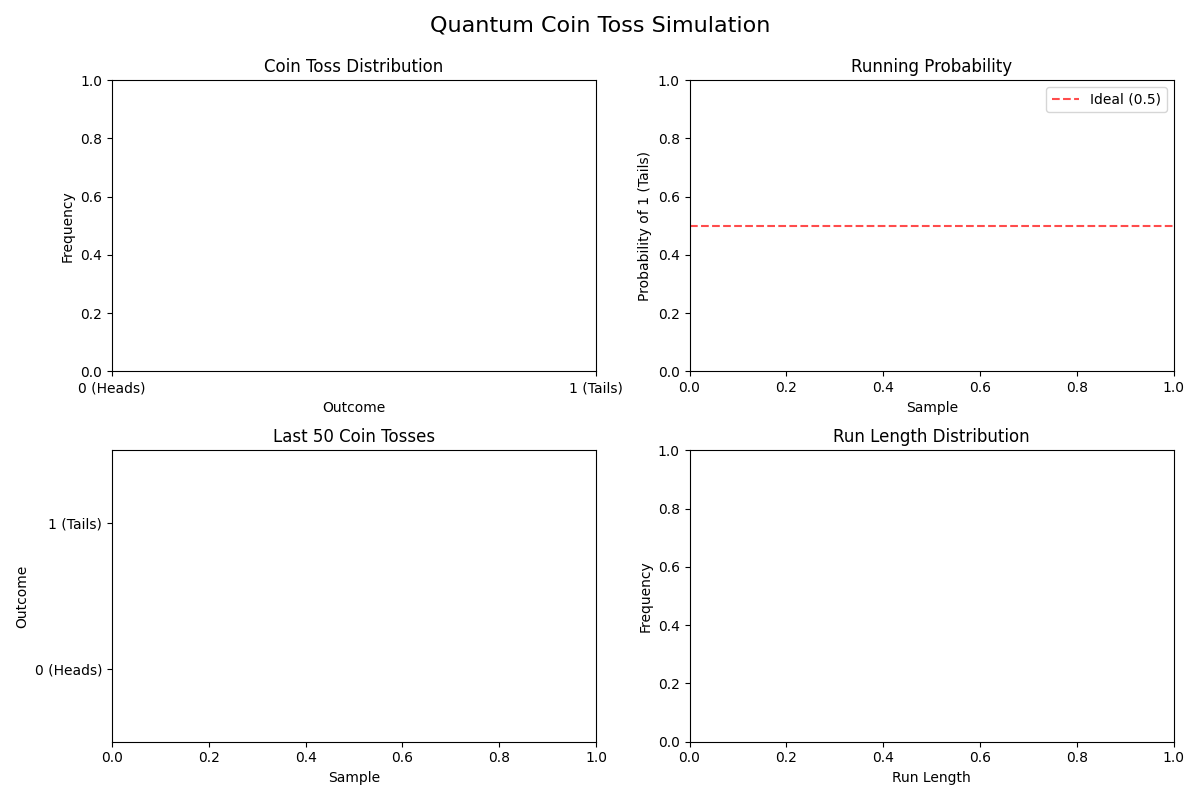
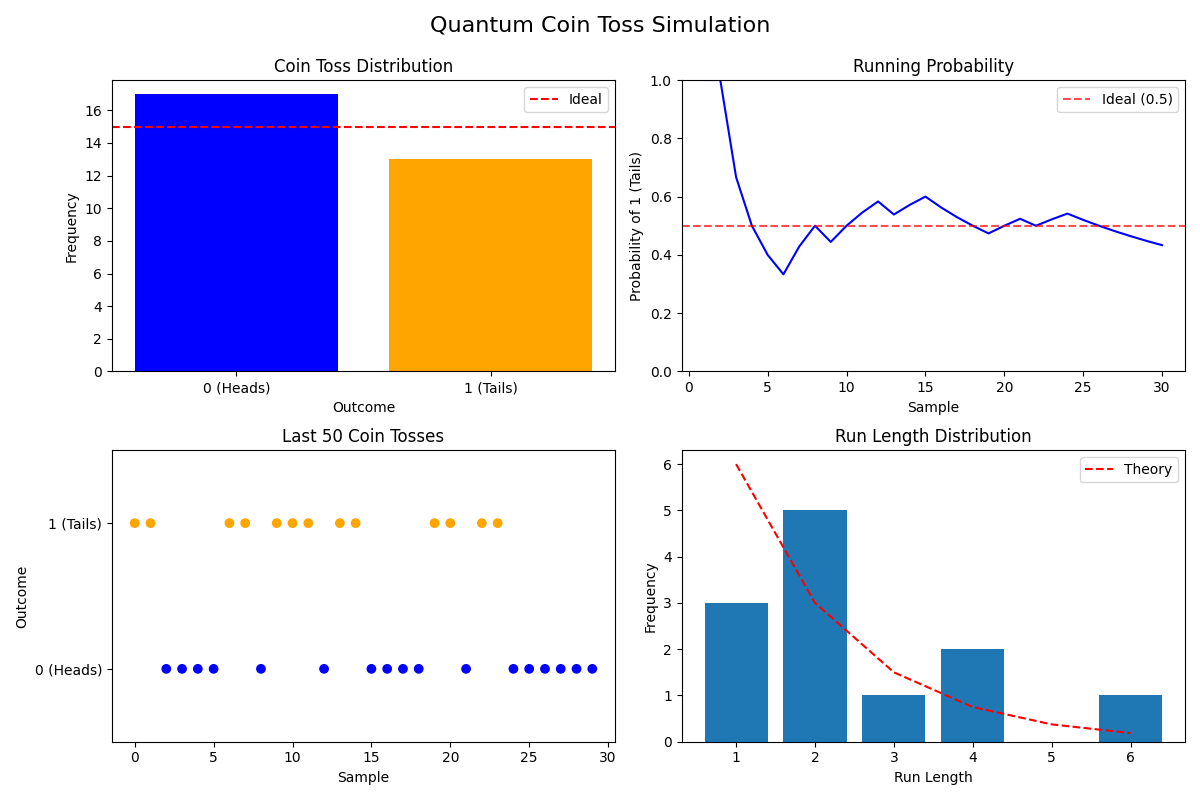
fixed the visualizer with some tests to make sure proper diagnostics were appearing

diff --git a/quantum_rings_toss.py b/quantum_rings_toss.py
@@ -7,6 +7,7 @@ from qiskit_aer import AerSimulator
 import numpy as np
 import time
 import argparse
+import matplotlib.pyplot as plt
 
 # Import our provider initialization and visualizer
 from quantum_rings_provider import initialize_quantum_backend
@@ -54,6 +55,7 @@ def quantum_coin_toss(use_hardware=False, visualizer=None):
     # Update visualizer if provided
     if visualizer:
         visualizer.add_result(result)
+        plt.pause(0.05)  # Force immediate update
     
     return result
 
@@ -130,6 +132,9 @@ def run_experiment(num_tosses=100, use_hardware=False, visualize=True, delay=0.1
         if visualize and visualizer:
             filename = f"quantum_toss_{hardware_label}.png"
             visualizer.save_visualization(filename)
+            plt.pause(0.5)
+            print("\nVisualization complete. Press Enter to close...")
+            input()
             time.sleep(1)  # Give time for save to complete
             visualizer.stop_visualization()
 
@@ -150,3 +155,6 @@ if __name__ == "__main__":
         visualize=not args.no_viz,
         delay=args.delay
     )
+
+    if not args.no_viz:
+        input("Press Enter to close the visualization...")

diff --git a/fixed_quantum_viz.py b/fixed_quantum_viz.py
@@ -1,0 +1,38 @@
+# Save as fixed_quantum_viz.py
+from quantum_visualizer import QuantumVisualizer
+from qiskit import QuantumCircuit
+from qiskit_aer import AerSimulator
+import matplotlib.pyplot as plt
+import time
+
+# Create visualizer
+viz = QuantumVisualizer()
+viz.start_visualization()
+
+# Run 20 actual quantum tosses
+simulator = AerSimulator()
+
+for i in range(20):
+    # Create quantum circuit
+    qc = QuantumCircuit(1, 1)
+    qc.h(0)  # Apply Hadamard gate
+    qc.measure(0, 0)
+    
+    # Run on simulator
+    job = simulator.run(qc, shots=1)
+    outcome = list(job.result().get_counts().keys())[0]
+    result = int(outcome)
+    
+    # Add to visualizer
+    viz.add_result(result)
+    print(f"Quantum toss {i+1}: {result}")
+    
+    # Force render update
+    plt.pause(0.3)
+
+# Save visualization
+print("Saving visualization...")
+viz.save_visualization("fixed_quantum_viz.png")
+
+# Keep window open
+input("Press Enter to close...")

diff --git a/quantum_test.py b/quantum_test.py
@@ -1,0 +1,29 @@
+# Save as quantum_test.py
+import matplotlib.pyplot as plt
+import numpy as np
+from qiskit import QuantumCircuit
+from qiskit_aer import AerSimulator
+
+# Run 20 actual quantum tosses
+results = []
+simulator = AerSimulator()
+
+for _ in range(20):
+    # Create the quantum circuit
+    qc = QuantumCircuit(1, 1)
+    qc.h(0)  # Apply Hadamard gate
+    qc.measure(0, 0)
+    
+    # Run on simulator
+    job = simulator.run(qc, shots=1)
+    outcome = list(job.result().get_counts().keys())[0]
+    result = int(outcome)
+    results.append(result)
+    print(f"Quantum toss result: {result}")
+
+# Plot the results (basic bar chart)
+plt.figure(figsize=(8, 6))
+plt.bar(['0 (Heads)', '1 (Tails)'], [results.count(0), results.count(1)])
+plt.title("Quantum Coin Toss Results")
+plt.savefig("quantum_test_results.png")
+plt.show()

diff --git a/simple_test.py b/simple_test.py
@@ -1,0 +1,19 @@
+# Save as simple_test.py
+from quantum_visualizer import QuantumVisualizer
+import time
+import random
+import matplotlib.pyplot as plt  # Add this import
+
+# Create visualizer
+viz = QuantumVisualizer()
+viz.start_visualization()
+
+# Add results one by one
+for i in range(20):
+    result = random.randint(0, 1)
+    viz.add_result(result)
+    print(f"Added result: {result}")
+    plt.pause(0.5)  # Force update
+
+print("Test complete")
+plt.pause(10)  # Keep window open for 10 seconds

diff --git a/quantum_visualizer.py b/quantum_visualizer.py
@@ -106,10 +106,12 @@ class QuantumVisualizer:
             interval=self.update_interval,
             blit=False
         )
-        
+    
         plt.tight_layout()
         plt.subplots_adjust(top=0.9)
-        plt.show(block=False)
+        plt.ion()  # Turn on interactive mode
+        plt.draw()
+        plt.pause(0.5)  # Force initial render
     
     def _update_plots(self, frame):
         """Update function for the animation"""

diff --git a/test_viz.py b/test_viz.py
@@ -1,0 +1,18 @@
+from quantum_visualizer import QuantumVisualizer
+import time
+import random
+
+viz = QuantumVisualizer()
+viz.start_visualization()
+
+# Add some data manually
+for i in range(10):
+    viz.add_result(0)  # Add some zeros
+    time.sleep(0.5)
+for i in range(10):
+    viz.add_result(1)  # Add some ones
+    time.sleep(0.5)
+
+# Keep the window open
+input("Press Enter to close...")
+viz.stop_visualization()

diff --git a/advanced_quantum_experiments.py b/advanced_quantum_experiments.py
@@ -1,10 +1,3 @@
-"""
-Advanced Quantum Coin Toss Experiments
---------------------------------------
-This script demonstrates more sophisticated quantum coin toss applications
-including multi-qubit implementations, entanglement-based protocols,
-and practical applications like quantum random number generators.
-"""
 
 from qiskit import QuantumCircuit, transpile
 from qiskit_aer import AerSimulator
